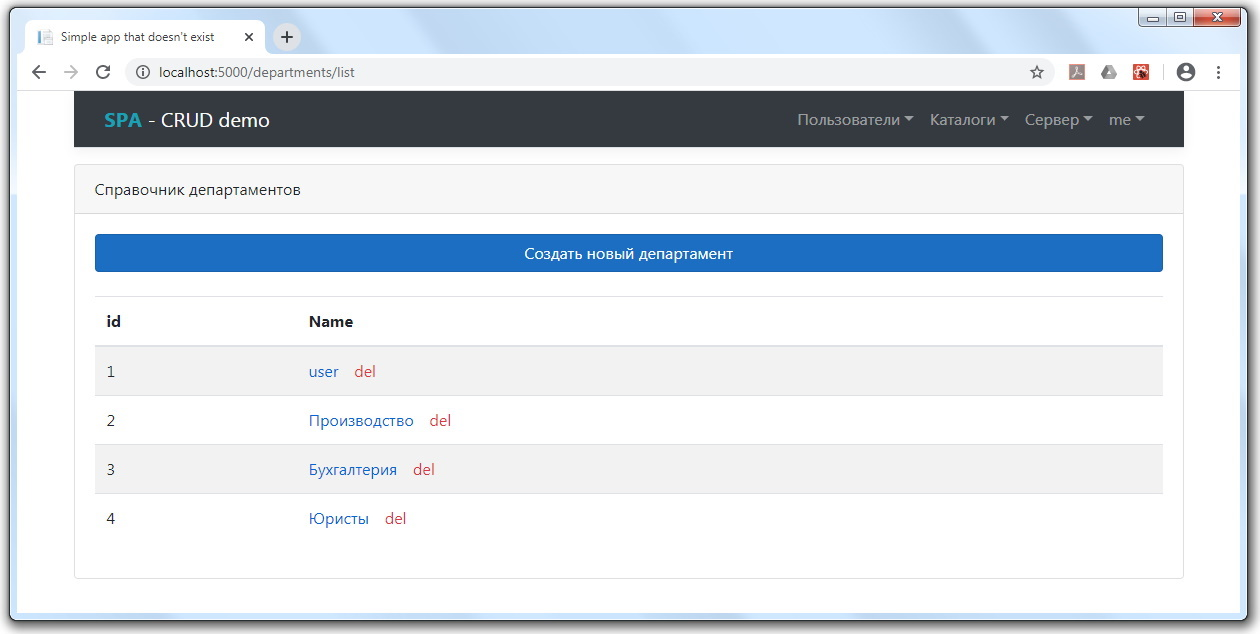
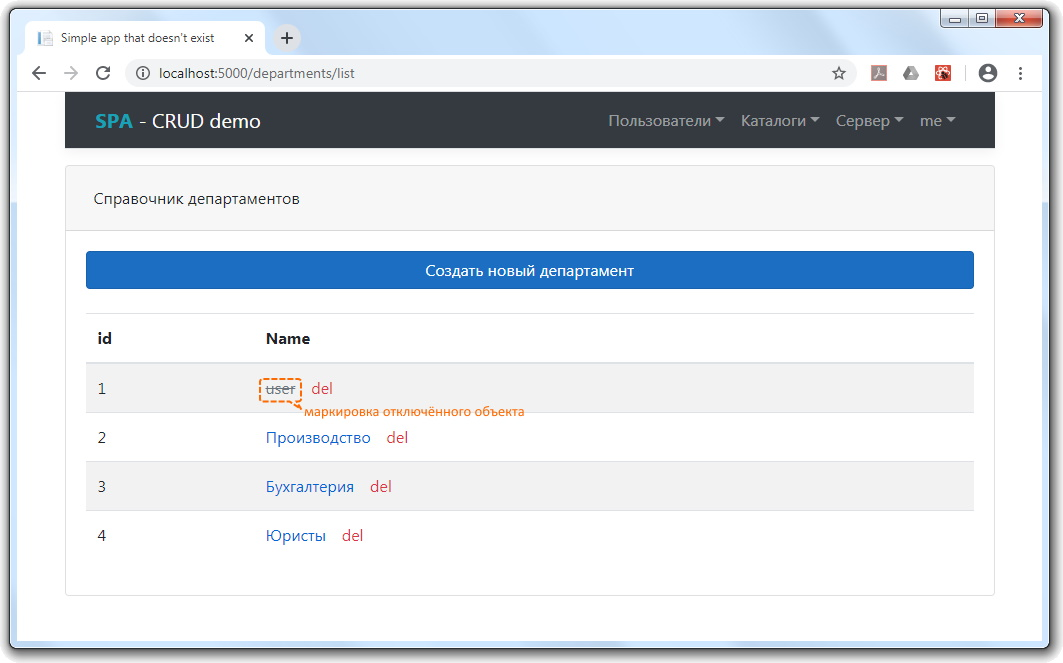
~ disabled reaction
маркировка объектов: вкл/выкл

diff --git a/ClientApp/src/components/pages/aPageCard.js b/ClientApp/src/components/pages/aPageCard.js
@@ -23,6 +23,7 @@ export class aPageCard extends aPage {
         super(props);
 
         this.handleClickButton = this.handleClickButton.bind(this);
+        this.handleClickButtonDisable = this.handleClickButtonDisable.bind(this);
     }
 
     /**
@@ -125,6 +126,25 @@ export class aPageCard extends aPage {
             const msg = `Ошибка: ${error}`;
             console.error(msg);
             alert(msg);
+        }
+    }
+
+    /** Вкл/Выкл объект */
+    async handleClickButtonDisable() {
+        const response = await fetch(`/api/${this.apiName}/${App.id}`, { method: 'PATCH' });
+        if (response.ok) {
+            var result = await response.json();
+            App.data.isDisabled = result.tag;
+            this.setState({ cardHeaderPanel: this.headerPanel() });
+        }
+    }
+
+    headerPanel() {
+        if (App.data.isDisabled === true) {
+            return <button onClick={this.handleClickButtonDisable} type="button" title='объект выключен. для включения - нажмите на кнопку' className="badge badge-pill badge-secondary">Выкл</button>;
+        }
+        else {
+            return <button onClick={this.handleClickButtonDisable} title='объект включен. для выключения - нажмите на кнопку' className="badge badge-pill badge-primary">Вкл</button>;
         }
     }
 

diff --git a/ClientApp/src/components/pages/users/listUsers.js b/ClientApp/src/components/pages/users/listUsers.js
@@ -31,7 +31,7 @@ export class listUsers extends aPageList {
                     <tbody>
                         {users.map(function (user) {
                             const currentNavLink = user.isDisabled === true
-                                ? <del className='text-muted'><NavLink to={`/${apiName}/${App.viewNameMethod}/${user.id}`} title='объект. отключен. кликните для редактирования'>{user.name} {user.Email}</NavLink></del>
+                                ? <del><NavLink className='text-muted' to={`/${apiName}/${App.viewNameMethod}/${user.id}`} title='объект. отключен. кликните для редактирования'>{user.name} {user.Email}</NavLink></del>
                                 : <NavLink to={`/${apiName}/${App.viewNameMethod}/${user.id}`} title='кликните для редактирования'>{user.name} {user.Email}</NavLink>
 
                             return <tr key={user.id}>

diff --git a/ClientApp/src/components/pages/departments/listDepartments.js b/ClientApp/src/components/pages/departments/listDepartments.js
@@ -30,7 +30,7 @@ export class listDepartments extends aPageList {
                     <tbody>
                         {departments.map(function (department) {
                             const currentNavLink = department.isDisabled === true
-                                ? <del className='text-muted'><NavLink to={`/${apiName}/${App.viewNameMethod}/${department.id}`} title='кликните для редактирования'>{department.name}</NavLink></del>
+                                ? <del><NavLink className='text-muted' to={`/${apiName}/${App.viewNameMethod}/${department.id}`} title='кликните для редактирования'>{department.name}</NavLink></del>
                                 : <NavLink to={`/${apiName}/${App.viewNameMethod}/${department.id}`} title='кликните для редактирования'>{department.name}</NavLink>
 
                             return <tr key={department.id}>

diff --git a/ClientApp/src/components/pages/users/viewUser.js b/ClientApp/src/components/pages/users/viewUser.js
@@ -14,7 +14,7 @@ export class viewUser extends aPageCard {
     async load() {
         const response = await fetch(`/api/${this.apiName}/${App.id}`);
         App.data = await response.json();
-        this.setState({ cardTitle: `Пользователь: [#${App.data.id}] ${App.data.name}`, loading: false, cardContents: this.body() });
+        this.setState({ cardTitle: `Пользователь: [#${App.data.id}] ${App.data.name}`, loading: false, cardContents: this.body(), cardHeaderPanel: this.headerPanel() });
     }
 
     body() {
@@ -61,10 +61,5 @@ export class viewUser extends aPageCard {
                 {this.viewButtons()}
             </form>
         );
-    }
-
-    isPrime(element, index, array) {
-        array.forEach(element => console.log(element));
-        return false;
     }
 }

diff --git a/ClientApp/src/components/pages/departments/viewDepartment.js b/ClientApp/src/components/pages/departments/viewDepartment.js
@@ -15,8 +15,9 @@ export class viewDepartment extends aPageCard {
     async load() {
         const response = await fetch(`/api/${this.apiName}/${App.id}`);
         App.data = await response.json();
-        this.setState({ cardTitle: `Департамент: [#${App.data.id}] ${App.data.name}`, loading: false, cardContents: this.body() });
+        this.setState({ cardTitle: `Департамент: [#${App.data.id}] ${App.data.name}`, loading: false, cardContents: this.body(), cardHeaderPanel: this.headerPanel() });
     }
+
     body() {
         var department = App.data;
         return (

diff --git a/ClientApp/src/components/pages/aPage.js b/ClientApp/src/components/pages/aPage.js
@@ -39,7 +39,7 @@ export class aPage extends Component {
                         <div className="d-flex">
                             <div className="mr-auto p-2">{this.state.cardTitle}</div>
                             <div className="p-2">{this.state.cardHeaderPanel}</div>
-                        </div>                        
+                        </div>
                     </div>
                     <div className="card-body">
                         {this.state.loading ? <p><em>Загрузка данных...</em></p> : this.state.cardContents}

diff --git a/Controllers/DepartmentsController.cs b/Controllers/DepartmentsController.cs
@@ -45,7 +45,7 @@ namespace SPADemoCRUD.Controllers
 
             List<UserModel> usersByDepartment = await _context.Users.Where(x => x.DepartmentId == id).ToListAsync();
 
-            return new { departmentModel.Id, departmentModel.Name, Users = usersByDepartment.Select(x => new { x.Id, x.Name, x.isDisabled }).ToList() };
+            return new { departmentModel.Id, departmentModel.Name, departmentModel.isDisabled, Users = usersByDepartment.Select(x => new { x.Id, x.Name, x.isDisabled }).ToList() };
         }
 
         // PUT: api/Departments/5
@@ -108,11 +108,36 @@ namespace SPADemoCRUD.Controllers
             return CreatedAtAction(nameof(GetDepartmentModel), new { id = departmentModel.Id }, departmentModel); ;
         }
 
+
+        // PATCH: api/Departments/5
+        [HttpPatch("{id}")]
+        public async Task<ActionResult> PatchDepartmentModel(int id)
+        {
+            var departmentModel = await _context.Departments.FindAsync(id);
+            if (departmentModel == null)
+            {
+                return NotFound();
+            }
+
+            departmentModel.isDisabled = !departmentModel.isDisabled;
+            _context.Departments.Update(departmentModel);
+            await _context.SaveChangesAsync();
+
+            return new ObjectResult(new ServerActionResult()
+            {
+                Success = true,
+                Info = "Объекту установлено новое состояние",
+                Status = StylesMessageEnum.success.ToString(),
+                Tag = departmentModel.isDisabled
+            });
+        }
+
+
         // DELETE: api/Departments/5
         [HttpDelete("{id}")]
         public async Task<ActionResult<DepartmentModel>> DeleteDepartmentModel(int id)
         {
-            var departmentModel = await _context.Departments.FindAsync(id);
+            DepartmentModel departmentModel = await _context.Departments.FindAsync(id);
             if (departmentModel == null)
             {
                 return NotFound();

diff --git a/Controllers/UsersController.cs b/Controllers/UsersController.cs
@@ -130,6 +130,29 @@ namespace SPADemoCRUD.Controllers
             return CreatedAtAction(nameof(GetUserModel), new { id = userModel.Id }, userModel);
         }
 
+        // PATCH: api/Users/5
+        [HttpPatch("{id}")]
+        public async Task<ActionResult> PatchUserModel(int id)
+        {
+            var userModel = await _context.Users.FindAsync(id);
+            if (userModel == null)
+            {
+                return NotFound();
+            }
+
+            userModel.isDisabled = !userModel.isDisabled;
+            _context.Users.Update(userModel);
+            await _context.SaveChangesAsync();
+
+            return new ObjectResult(new ServerActionResult()
+            {
+                Success = true,
+                Info = "Объекту установлено новое состояние",
+                Status = StylesMessageEnum.success.ToString(),
+                Tag = userModel.isDisabled
+            });
+        }
+
         // DELETE: api/Users/5
         [HttpDelete("{id}")]
         public async Task<ActionResult<UserModel>> DeleteUserModel(int id)
